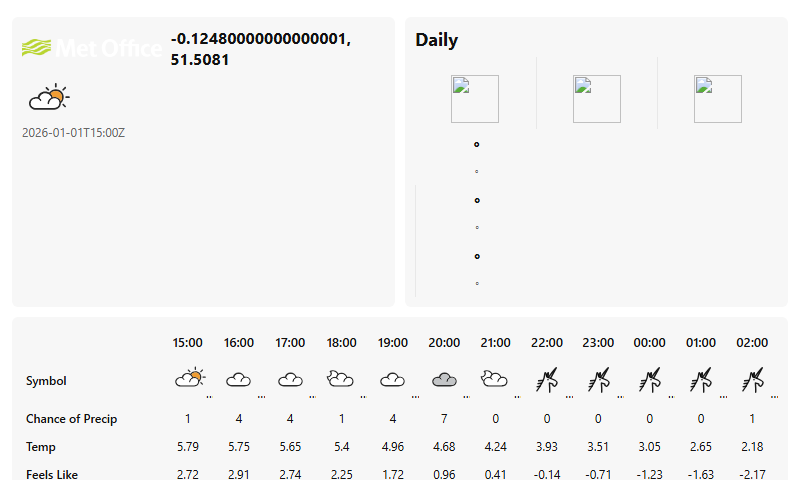
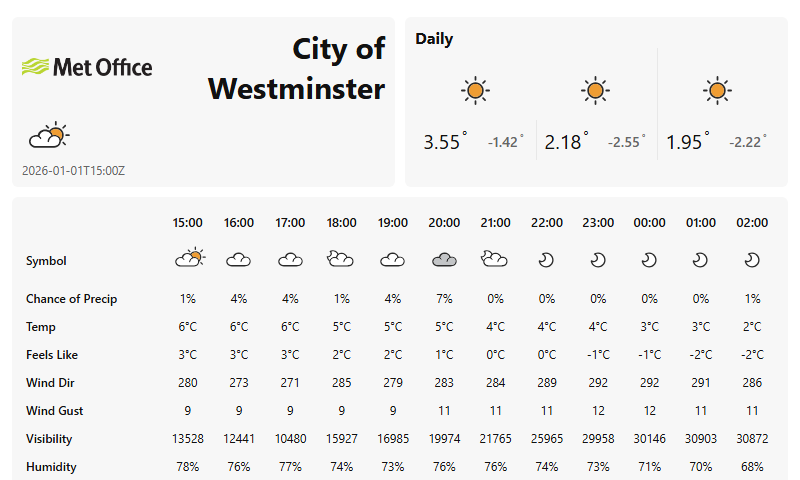
wip: fixed css and about to get copilot to redraw the lines

diff --git a/src/plugins/burnsyweather/render/burnsyweather.html b/src/plugins/burnsyweather/render/burnsyweather.html
@@ -26,30 +26,24 @@
         <table class="daily-table">
           <thead>
             <tr>
-              <th>{{ daily_1_heading }}</th>
-              <th>{{ daily_2_heading }}</th>
-              <th>{{ daily_3_heading }}</th>
+              <th colspan="2">{{ daily_1_heading }}</th>
+              <th colspan="2">{{ daily_2_heading }}</th>
+              <th colspan="2">{{ daily_3_heading }}</th>
             </tr>
           </thead>
           <tbody>
             <tr class="symbols-row">
-              <td class="daily-symbol"><img src="{{ daily_1_symbol }}" alt=""></td>
-              <td class="daily-symbol"><img src="{{ daily_2_symbol }}" alt=""></td>
-              <td class="daily-symbol"><img src="{{ daily_3_symbol }}" alt=""></td>
+              <td colspan="2" class="daily-symbol"><img src="{{ day_1_weather_symbol }}" alt=""></td>
+              <td colspan="2" class="daily-symbol"><img src="{{ day_2_weather_symbol }}" alt=""></td>
+              <td colspan="2" class="daily-symbol"><img src="{{ day_3_weather_symbol }}" alt=""></td>
             </tr>
             <tr class="temps-row">
-              <td class="daily-temp">
-                <div class="big-temp">{{ daily_1_high }}<span class="deg">°</span></div>
-                <div class="small-temp">{{ daily_1_low }}<span class="deg">°</span></div>
-              </td>
-              <td class="daily-temp">
-                <div class="big-temp">{{ daily_2_high }}<span class="deg">°</span></div>
-                <div class="small-temp">{{ daily_2_low }}<span class="deg">°</span></div>
-              </td>
-              <td class="daily-temp">
-                <div class="big-temp">{{ daily_3_high }}<span class="deg">°</span></div>
-                <div class="small-temp">{{ daily_3_low }}<span class="deg">°</span></div>
-              </td>
+              <td class="daily-temp max">{{ day_1_temp_max }}<span class="deg">°</span></td>
+              <td class="daily-temp min">{{ day_1_temp_min }}<span class="deg">°</span></td>
+              <td class="daily-temp max">{{ day_2_temp_max }}<span class="deg">°</span></td>
+              <td class="daily-temp min">{{ day_2_temp_min }}<span class="deg">°</span></td>
+              <td class="daily-temp max">{{ day_3_temp_max }}<span class="deg">°</span></td>
+              <td class="daily-temp min">{{ day_3_temp_min }}<span class="deg">°</span></td>
             </tr>
           </tbody>
         </table>

diff --git a/src/plugins/burnsyweather/render/burnsyweather.css b/src/plugins/burnsyweather/render/burnsyweather.css
@@ -112,16 +112,17 @@ html,body{height:100%;margin:0;background:var(--bg);color:var(--fg);font-family:
 .daily-table th,.daily-table td{padding:6px 8px;text-align:center;vertical-align:middle}
 .daily-table thead th{font-size:13px;font-weight:700}
 .daily-symbol img{width:48px;height:auto}
-.daily-temp{display:flex;flex-direction:column;align-items:center;gap:6px}
 .big-temp{font-size:26px;font-weight:800}
 .small-temp{font-size:14px;color:var(--muted)}
 .deg{font-size:0.7em;vertical-align:super;margin-left:2px}
+.daily-temp.min{font-size:14px;font-weight:600;color:var(--muted)}
+.daily-temp.max{font-size:20px}
 
 /* divider color */
 :root{--daily-divider: rgba(0,0,0,0.06)}
 
-/* vertical dividers between columns (full height via nth-child selectors) */
-.daily-table th:nth-child(2), .daily-table td:nth-child(2),
-.daily-table th:nth-child(3), .daily-table td:nth-child(3) {
+/* vertical dividers between day groups (columns 3 and 5 are the starts of day2/day3 groups) */
+.daily-table th:nth-child(3), .daily-table td:nth-child(3),
+.daily-table th:nth-child(5), .daily-table td:nth-child(5) {
   border-left: 1px solid var(--daily-divider);
 }

diff --git a/src/plugins/burnsyweather/Services/GlobalSpotLocationDailyAdaptor.py b/src/plugins/burnsyweather/Services/GlobalSpotLocationDailyAdaptor.py
@@ -6,7 +6,7 @@ class GlobalSpotLocationDailyAdaptor:
         
         global_spot_location_daily = {}
         
-        # for elements 2, 3, and 4 - tomowrrow, day after, and day after that
+        # for elements 2, 3, and 4 - tomorrow, day after, and day after that
         for i in range(2,5):
             global_spot_location_daily[f"day_{i-1}_weather_symbol"] = os.path.join(plugin_dir, 'icons', 'old', f'{weather_data.features[0].properties.timeSeries[i].daySignificantWeatherCode}.svg')
             global_spot_location_daily[f"day_{i-1}_temp_max"] = weather_data.features[0].properties.timeSeries[i].dayMaxScreenTemperature
